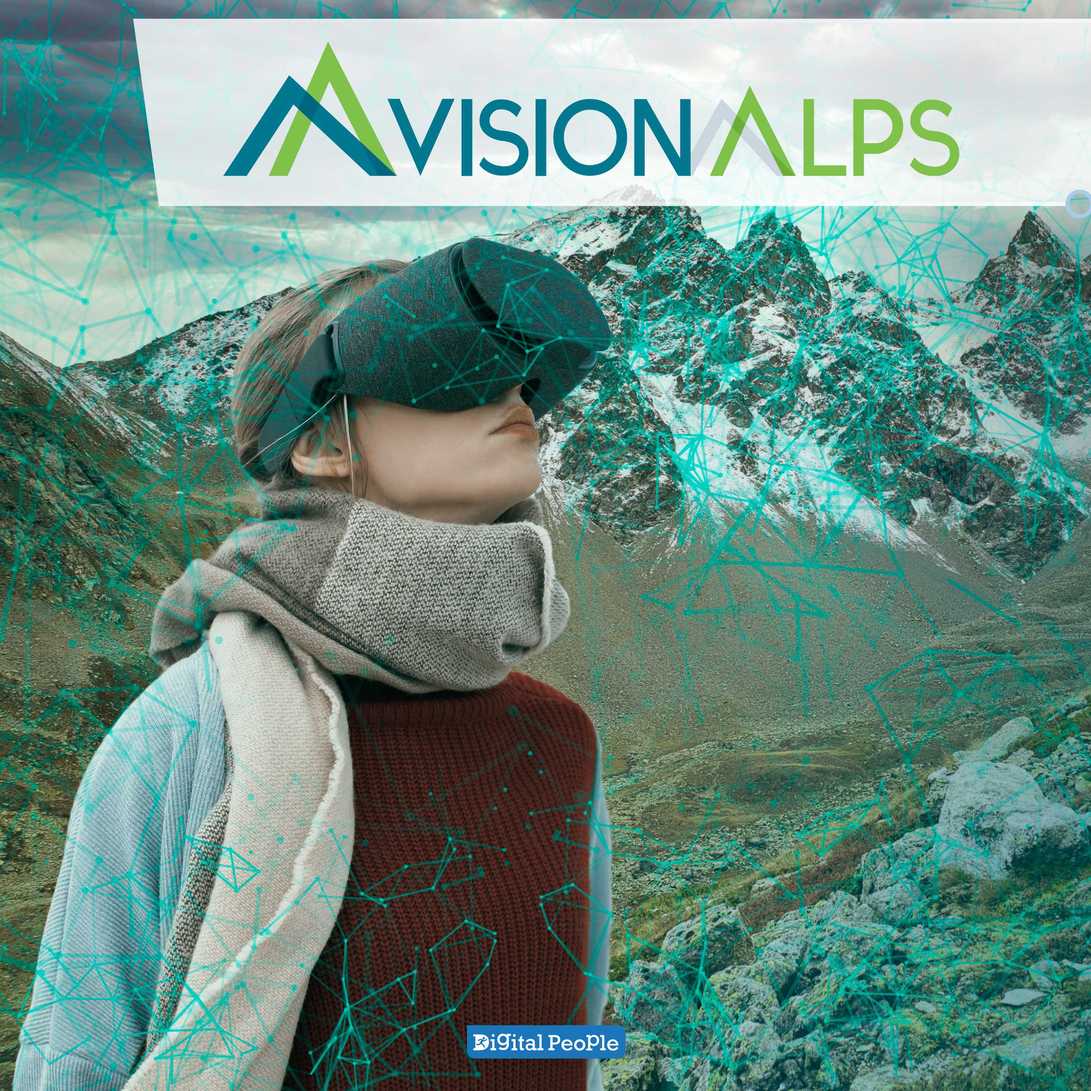
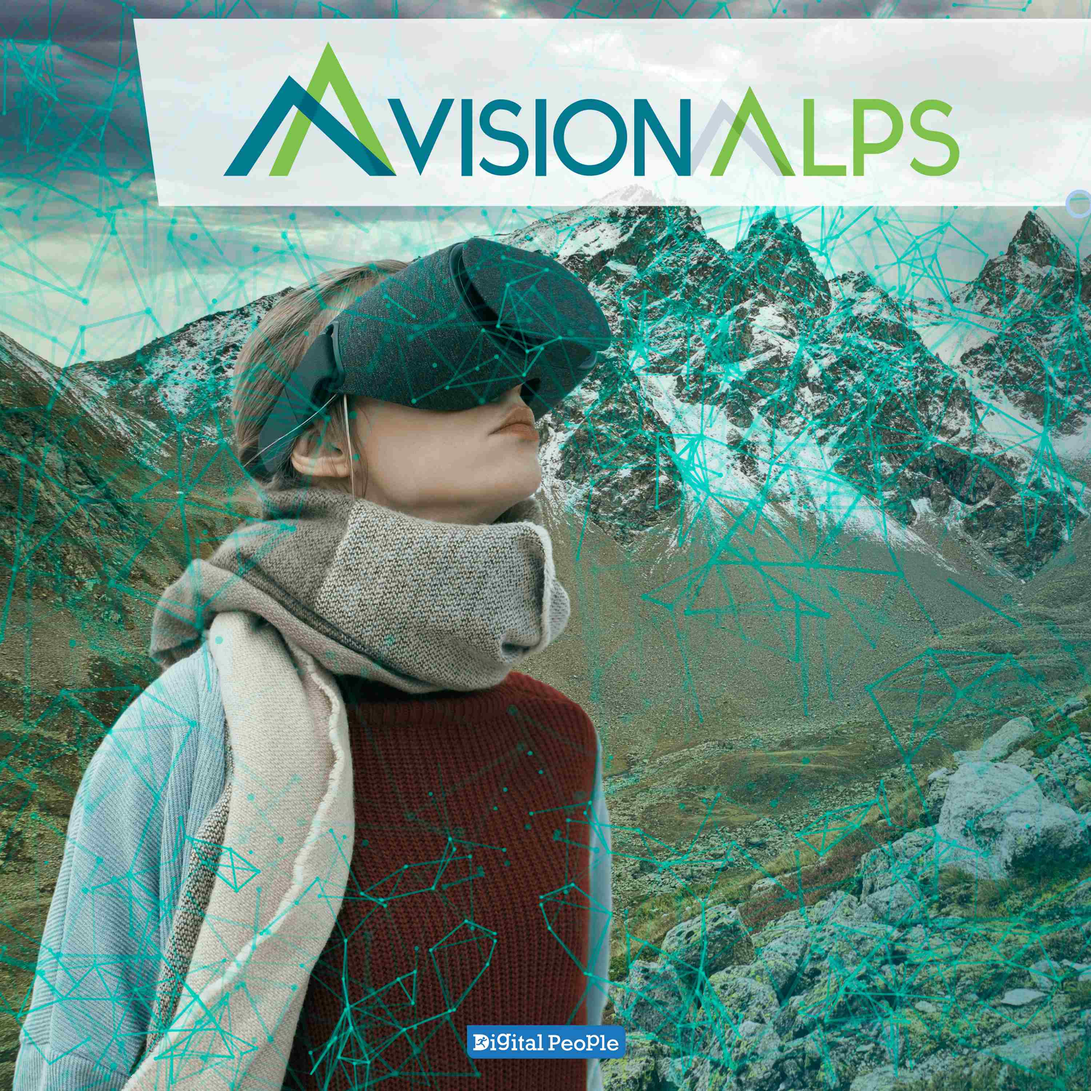
Compressed image further

diff --git a/compressImages.py b/compressImages.py
@@ -26,16 +26,16 @@ OPTIONS = [
         'format': 'jpeg'
     },
     {
-        'suffix': '1400x1400',
-        'size': [1400, 1400],
-        'quality': 80,
+        'suffix': '3000x3000',
+        'size': [3000, 3000],
+        'quality': 18,
         'format': 'jpeg',
         'only': ['VisionAlps']
     },
     {
-        'suffix': '3000x3000',
-        'size': [3000, 3000],
-        'quality': 50,
+        'suffix': '1400x1400',
+        'size': [1400, 1400],
+        'quality': 80,
         'format': 'jpeg',
         'only': ['VisionAlps']
     }

diff --git a/src/routes/podcasts/visionalps/_index.md b/src/routes/podcasts/visionalps/_index.md
@@ -23,8 +23,8 @@ platforms:
 imageset:
 - /podcasts/visionalps/cover.1000x1000.webp
 - /podcasts/visionalps/cover.2400x2400.jpeg
-- /podcasts/visionalps/cover.1400x1400.jpeg
 - /podcasts/visionalps/cover.3000x3000.jpeg
+- /podcasts/visionalps/cover.1400x1400.jpeg
 ---
 
 [VisionAlps](https://www.visionalps.com/) è il podcast dell'omonima serie di incontri, che analizza il punto di vista di istituzioni e professionisti sugli scenari di sviluppo delle Alpi, in particolare sul ruolo del digitale nella trasformazione del territorio e dell'ecosistema alpino.
